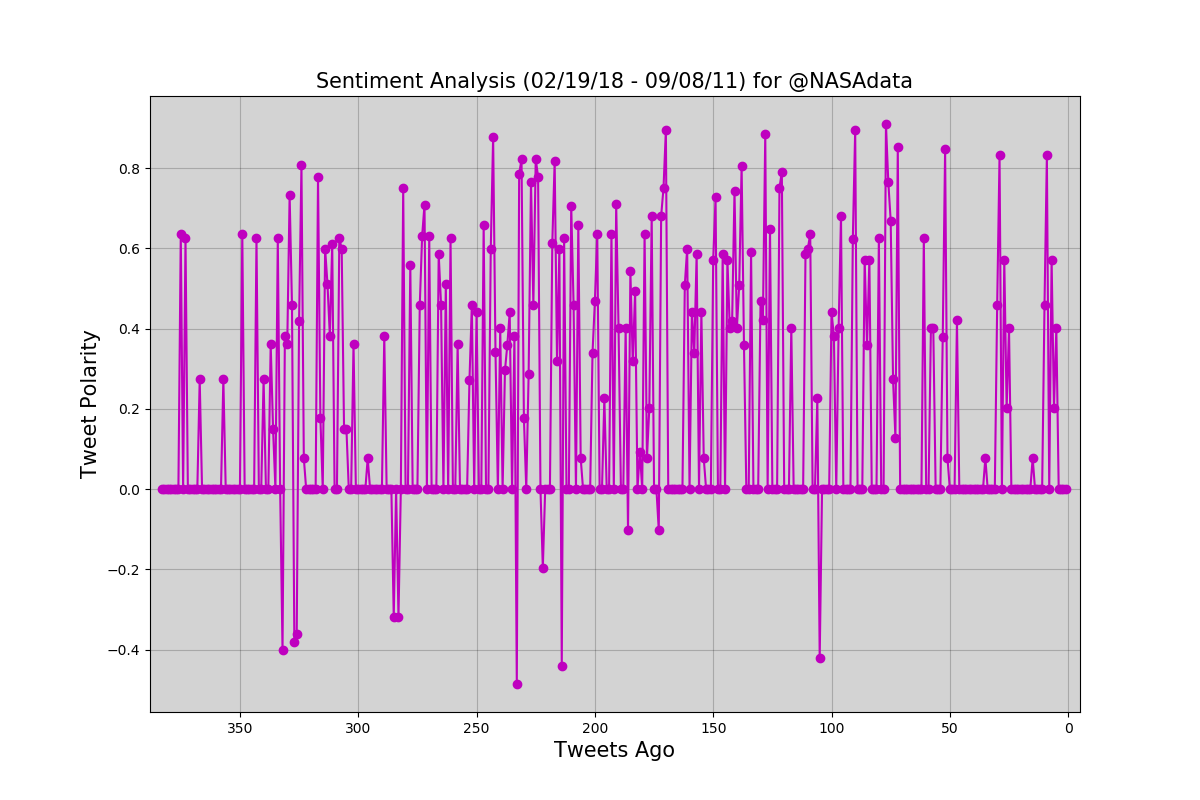
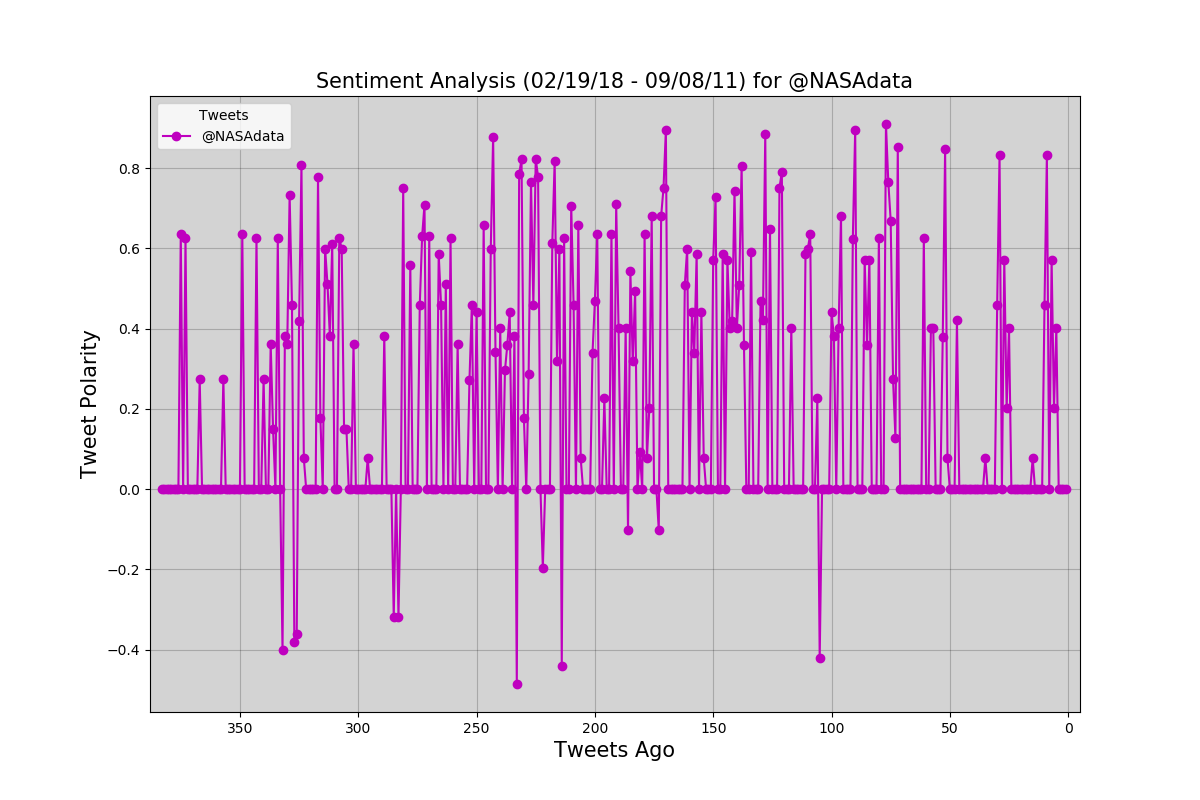
Added code for legend and regenerated images

Changed region(s): [[0.1233, 0.125, 0.2467, 0.1875]]

diff --git a/DataPlotBlot.py b/DataPlotBlot.py
@@ -99,7 +99,7 @@ def plot_sentiment_analysis(tweet_df, twitter_user):
     # Create plot
     fig = plt.figure(figsize=(12,8))
     ax = fig.add_subplot(111,facecolor='lightgrey')
-    plt.plot(tweet_df['Tweets Ago'], tweet_df['Compound'], '-o', color='m')
+    plt.plot(tweet_df['Tweets Ago'], tweet_df['Compound'], '-o', color='m', label=twitter_user)
     
     # Incorporate the other graph properties
     plt.grid(color='black', alpha = 0.2)
@@ -107,6 +107,7 @@ def plot_sentiment_analysis(tweet_df, twitter_user):
     plt.xlabel("Tweets Ago", size=15)
     plt.ylabel("Tweet Polarity", size=15)
     plt.title("Sentiment Analysis ({} - {}) for {}".format(start_date, end_date, twitter_user), size=15)
+    plt.legend(title="Tweets",loc='best')
 
     # Save the plot image as a png file for posting on twitter
     image_file_name = twitter_user+".png"
